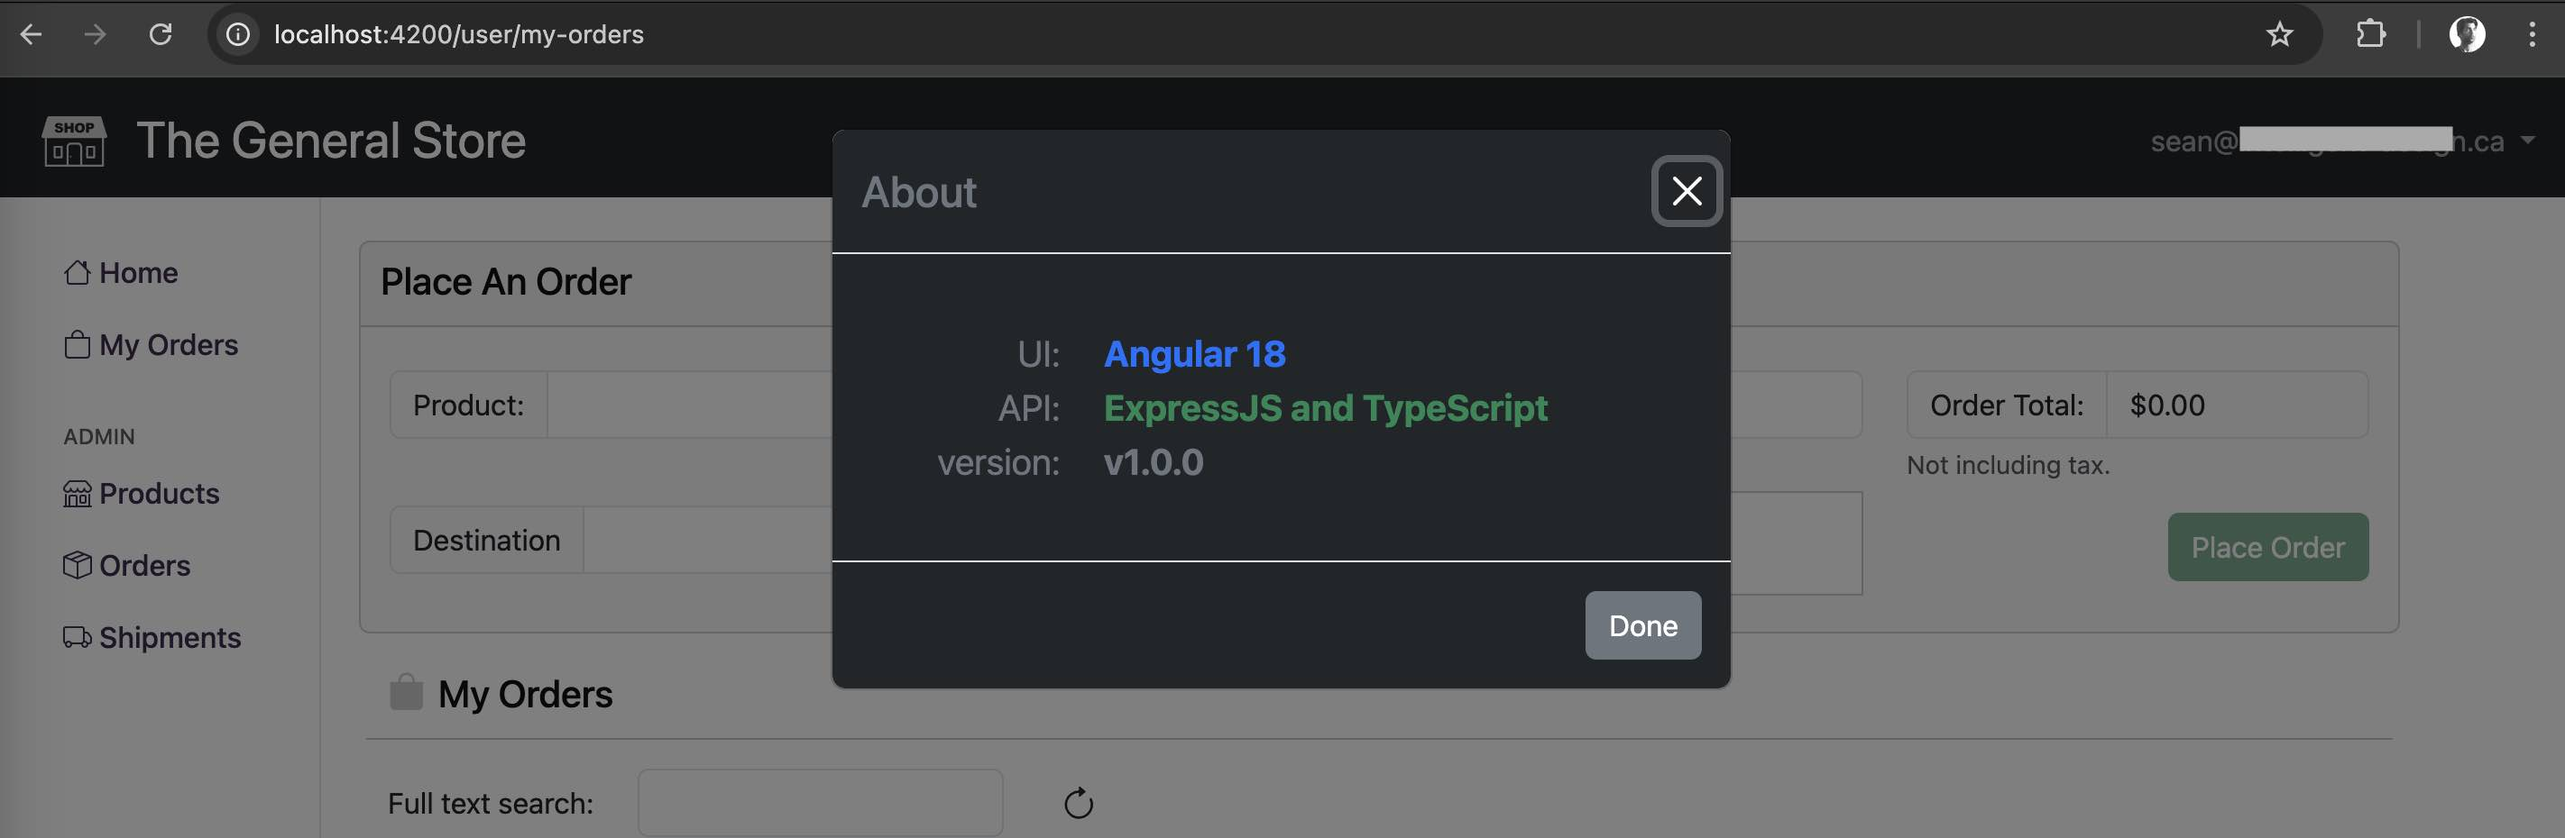
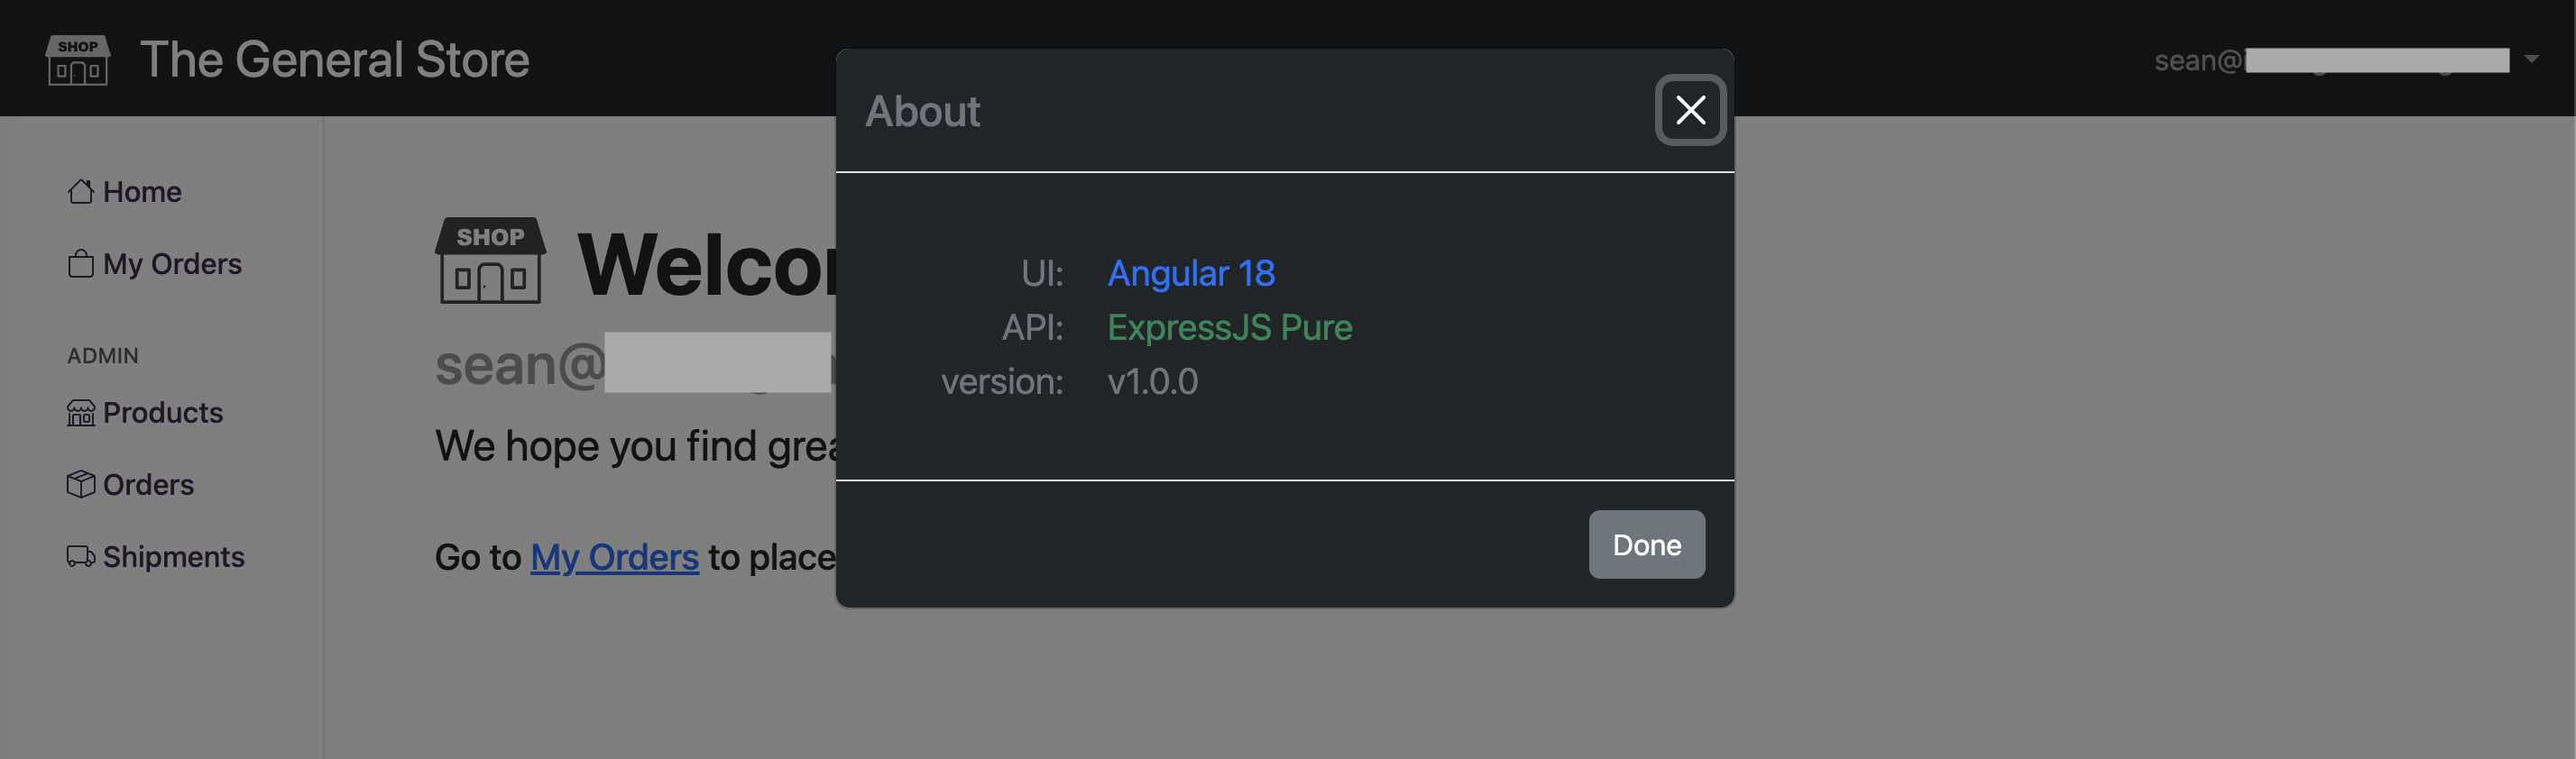
updated expressjs about and demo image

diff --git a/ui/angular/src/app/view/shared/about-dialog/about-dialog.component.html b/ui/angular/src/app/view/shared/about-dialog/about-dialog.component.html
@@ -10,7 +10,7 @@
                     <label>UI:</label>
                 </div>
                 <div class="col-9">
-                    <strong><span class="text-primary">Angular 18</span></strong>
+                    <span class="text-primary">Angular 18</span>
                 </div>
             </div>
             <div class="row">
@@ -18,7 +18,7 @@
                     <label>API:</label>
                 </div>
                 <div class="col-9">
-                    <strong><span class="text-success">{{ apiName }}</span></strong>
+                    <span class="text-success">{{ apiName }}</span>
                 </div>
             </div>
             <div class="row">
@@ -26,7 +26,7 @@
                     <label>version:</label>
                 </div>
                 <div class="col-9">
-                    <strong><span class="text-secondary">{{ version }}</span></strong>
+                    <span class="text-secondary">{{ version }}</span>
                 </div>
             </div>
         </div>

diff --git a/api/expressjs/src/api/aboutService.js b/api/expressjs/src/api/aboutService.js
@@ -4,7 +4,7 @@ let router = express.Router();
 
 /* GET users listing. */
 router.get('/', function(req, res, next) {
-  res.send({ apiName: "Pure ExpressJS w/ Modern Javascript", version: "v1.0.0"});
+  res.send({ apiName: "ExpressJS Pure", version: "v1.0.0"});
 });
 
 export default router;
